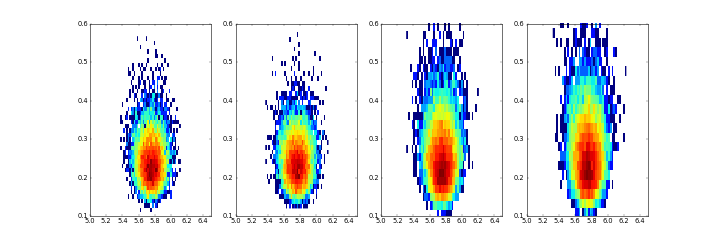
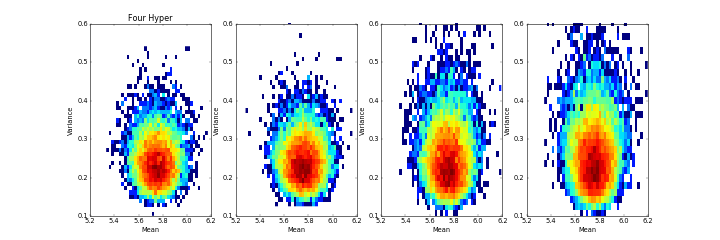
Final updates to project. Simulations complete exept for a more advanced one of the Newmeyer Model. Axis on facutly_learning plots off and need to be fixed at some point

diff --git a/src/faculty_learning.py b/src/faculty_learning.py
@@ -107,13 +107,17 @@ print('Mean of data:', np.mean(data))
 # Plot joint distribution for prior_mean and prior_varinace
 fig, (ax) = plt.subplots(1, 1, figsize=(9,6))
 ax.hist2d(mean_samples, var_samples, bins=40, norm=LogNorm())
-plt.savefig('../img/learning/faculty_joint_none.png', dpi=40)
-
+ax.set_xlabel('Mean')
+ax.set_ylabel('Variance')
+ax.set_title('Mean vs. Variance')
+ax.set_xlim(5.2, 6.2)
+ax.set_ylim(0.1, 0.6)
+#plt.savefig('../img/learning/faculty_joint_none.png', dpi=40)
 
 
 # Start and run network with additional hyper-parameter
-hyper_mean_mean = NormalNode(5, 1.5, NormalProposal(0.01))
-#hyper_mean_mean = NormalNode(18, 1.5, NormalProposal(0.01))
+#hyper_mean_mean = NormalNode(5, 1.5, NormalProposal(0.01))
+hyper_mean_mean = NormalNode(18, 1.5, NormalProposal(0.01))
 prior_mean.set_mean(hyper_mean_mean)
 hyper_mean_mean.add_child(prior_mean)
 network.add_node(hyper_mean_mean)
@@ -132,8 +136,8 @@ var_samples1 = samples1[:,1]
 
 
 # Start and run network with additional hyper-parameter
-hyper_mean_var = InvGammaNode(2, 1/9, NormalProposal(0.005))
-#hyper_mean_var = InvGammaNode(4, 1/19, NormalProposal(0.01))
+#hyper_mean_var = InvGammaNode(2, 1/9, NormalProposal(0.005))
+hyper_mean_var = InvGammaNode(4, 1/19, NormalProposal(0.01))
 prior_mean.set_variance(hyper_mean_var)
 hyper_mean_var.add_child(prior_mean)
 network.add_node(hyper_mean_var)
@@ -152,8 +156,8 @@ var_samples2 = samples2[:,1]
 
 
 # Start and run network with additional hyper-parameter
-hyper_var_alpha = GammaNode(3, 3/11, NormalProposal(0.4))
-#hyper_var_alpha = GammaNode(8, 1/21, NormalProposal(0.4))
+#hyper_var_alpha = GammaNode(3, 3/11, NormalProposal(0.4))
+hyper_var_alpha = GammaNode(8, 1/21, NormalProposal(0.4))
 prior_variance.set_alpha(hyper_var_alpha)
 hyper_var_alpha.add_child(prior_variance)
 network.add_node(hyper_var_alpha)
@@ -172,8 +176,8 @@ var_samples3 = samples3[:,1]
 
 
 # Start and run network with additional hyper-parameter
-hyper_var_beta = GammaNode(1, 1/2.5, NormalProposal(0.1))
-#hyper_var_beta = GammaNode(2, 1/5.5, NormalProposal(0.1))
+#hyper_var_beta = GammaNode(1, 1/2.5, NormalProposal(0.1))
+hyper_var_beta = GammaNode(2, 1/5.5, NormalProposal(0.1))
 prior_variance.set_beta(hyper_var_beta)
 hyper_var_beta.add_child(prior_variance)
 network.add_node(hyper_var_beta)
@@ -195,19 +199,31 @@ var_samples4 = samples4[1]
 # Plot joint distribution with hyper-parameters included
 fig, (ax1, ax2, ax3, ax4) = plt.subplots(1, 4, figsize=(18,6))
 ax1.hist2d(mean_samples1, var_samples1, bins=40, norm=LogNorm())
-ax1.set_xlim(5.0, 6.5)
+ax1.set_xlim(5.2, 6.2)
 ax1.set_ylim(0.1, 0.6)
+ax1.set_xlabel('Mean')
+ax1.set_ylabel('Variance')
+ax1.set_title('One Hyper')
 ax2.hist2d(mean_samples2, var_samples2, bins=40, norm=LogNorm())
-ax2.set_xlim(5.0, 6.5)
+ax2.set_xlim(5.2, 6.2)
 ax2.set_ylim(0.1, 0.6)
+ax2.set_xlabel('Mean')
+ax2.set_ylabel('Variance')
+ax2.set_title('Two Hyper')
 ax3.hist2d(mean_samples3, var_samples3, bins=40, norm=LogNorm())
-ax3.set_xlim(5.0, 6.5)
+ax3.set_xlim(5.2, 6.2)
 ax3.set_ylim(0.1, 0.6)
+ax3.set_xlabel('Mean')
+ax3.set_ylabel('Variance')
+ax3.set_title('Three Hyper')
 ax4.hist2d(mean_samples4, var_samples4, bins=40, norm=LogNorm())
-ax4.set_xlim(5.0, 6.5)
+ax4.set_xlim(5.2, 6.2)
 ax4.set_ylim(0.1, 0.6)
-plt.savefig('../img/learning/faculty_joint_hyper.png', dpi=40)
-#plt.savefig('../img/learning/faculty_joint_off.png', dpi=40)
+ax4.set_xlabel('Mean')
+ax4.set_ylabel('Variance')
+ax4.set_title('Four Hyper')
+#plt.savefig('../img/learning/faculty_joint_hyper.png', dpi=40)
+plt.savefig('../img/learning/faculty_joint_off.png', dpi=40)
 
 # Analyze the mixing for the hyper-pparameters
 fig, (ax1, ax2, ax3, ax4) = plt.subplots(1, 4, figsize=(18,6))

diff --git a/doc/mcmc_lab3.md b/doc/mcmc_lab3.md
@@ -1,45 +1,27 @@
 # MCMC Part 3: Learning
 
-Note that burn-in and mixing plots are not included in this report as it is focused on hyper-parameters and not previous work in Metropolis. The plots, however, have been studied throughout the development of this project to ensure results are good.
+This document contains results from several experiments in parameter learning using Markov Chain Monte Carlo methods (Gibbs Sampling to be specific). Two specific models are used in this document. The first is the Faculty Evaluations model in which data nodes extend from a common mean and variance modeled as a normal and Inverse Gamma respectively. The second is the Alarm Model, an entirely Bernoulli based model. Some values were modified to accommodate ease of simulation of rare events. Note that burn-in and mixing plots are not included in this report as it is focused on hyper-parameters and not previous work in Metropolis. The plots, however, have been studied throughout the development of this project to ensure results are accurate.
 
 ## Faculty Model Learning
 
-The following plots show the joint distribution of the parameters for mean and variance in the Faculty Evaluations Model as hyper-parameters are added. The initial figure shows the joint disbritution with no hyper-parameters. The figure after shows hyper-parameters being added in the following order: mean-mean, mean-variance, variance-alpha, variance-beta. The hyper-parameters used have the following fixed parameters
+The following plots show the joint distribution of the parameters for mean and variance in the Faculty Evaluations Model as hyper-parameters are added. The initial figure shows the joint distribution with no hyper-parameters. The figure after shows hyper-parameters being added in the following order: mean-mean, mean-variance, variance-alpha, variance-beta. The hyper-parameters used have the following fixed parameters
 
 - Mean-Mean: Normal(5, 1.5)
 - Mean-Variance: Inverse Gamma(alpha=2, beta=1/9)
 - Variance-Alpha:
 - Variance-Beta:
 
-~~Add axis labels and title~~
 ![Joint Distribution - No Hyper-parameters](../img/learning/faculty_joint_none.png)
 
-~~Add axis labels and title~~
-![Joint Distribution - Hyper-parameterrs](../img/learning/faculty_joint_hyper.png)
+![Joint Distribution - Hyper-parameters](../img/learning/faculty_joint_hyper.png)
 
-The histograms of added hyper-parameters trent to become slightly more spread out than the original histogram. The fixed parameters used in the hyper-parameters were chosen to have a means that mimic the previous mean and variance. If instead more "off" fixed parameters are chosen for the hyper-parameters The following results as they are added one-by-one.
+The histograms of added hyper-parameters tend to become slightly more spread out than the original histogram. The fixed parameters used in the hyper-parameters were chosen to have a means that mimic the previous mean and variance. If instead more "off" fixed parameters are chosen for the hyper-parameters the following results as they are added one-by-one.
 
-~~Add axis labels and title~~
 ![Joint Distribution - Off Hyper-parameters](../img/learning/faculty_joint_off.png)
-
-~~Results from 'off' hyper-parameters~~
-
-~~Report on how distributions are affected~~
-
-~~Test using more hyper-parameters?~~
-
-~~Remeber to increase run parameters before runing final simulation~~
-
-Interesting things to show:
-- Eliminating data from the model
-- Adding additional, unobserved, nodes to see how results change
-- Add parent nodes and watch how they learn
-	- What to look for?
-	- Maybe watch for how estimates of mean and variance are affected
 
 ## Alarm Model Learning
 
-In the Alarm Model I use Beta distributions to model the hyper-parameters for all of the simulations. In most cases the initial parameters used are alpha=1, beta=1. The posterior this way makes no assumption on what the probabilities are and is trained by the data.
+In the Alarm Model I use Beta distributions to model the hyper-parameters for all of the simulations. Throughout the experiments the initial parameters used are alpha=1, beta=1. The posterior this way makes no assumption on what the probabilities are and is trained by the data.
 
 ### Hyper-parameter Learning
 
@@ -54,7 +36,7 @@ Only three hyper-parameters:
 Half of hyper-parameters
 
 - Alarm for Burglary true and Earthquake true
-- Burlary
+- Burglary
 
 All of hyper-parameters
 
@@ -64,7 +46,7 @@ All of hyper-parameters
 - Mary for Alarm true
 - Mary for Alarm false
 
-In the first plot only the TT, TF, and FT cases are included. All simulations for these tests were run with 100 data nodes and for 1000 samples. In the plot, the yellow dot represets the actual parameter and the red dot represents the estimated parameter. The prior is also shown along with a histogram of the sampled posterior.
+In the first plot only the TT, TF, and FT cases are included. All simulations for these tests were run with 100 data nodes and for 1000 samples. In the plot, the yellow dot represents the actual parameter and the red dot represents the estimated parameter. The prior is also shown along with a histogram of the sampled posterior.
 
 ![3 Hyper-parameters](../img/learning/alarm_hyper_3.png)
 
@@ -76,7 +58,7 @@ Although this is only a case study and in no way a proof, from my observation th
 
 ### Amounts of Learning Data
 
-Using the same scenario as the previous section, the following are the alarm node hyper-parameters with three different amount of data: 20 data nodes, 100 data nodes, and 500 data nodes. All hyper-parameters were included in this scenario.
+Using the same scenario as the previous section, the following are the alarm node hyper-parameters with three different amounts of data: 20 data nodes, 100 data nodes, and 500 data nodes. All hyper-parameters were included in this scenario.
 
 ![20 Data Nodes](../img/learning/alarm_nodes_20.png)
 
@@ -84,7 +66,7 @@ Using the same scenario as the previous section, the following are the alarm nod
 
 ![500 Data Nodes](../img/learning/alarm_nodes_500.png)
 
-Scince these observed nodes are all taken from the same child node, The following plots are from the same simulations but show various a few other samplings. The plots show the hyper-parameters of burglary, John given alarm false, and Mary given alarm true.
+Since these observed nodes are all taken from the same child node, the following plots are from the same simulations but show various other samplings. The plots show the hyper-parameters of burglary, John given alarm false, and Mary given alarm true.
 
 ![20 Data Nodes Various](../img/learning/alarm_nodes_various_20.png)
 
@@ -92,11 +74,11 @@ Scince these observed nodes are all taken from the same child node, The followin
 
 ![500 Data Nodes Various](../img/learning/alarm_nodes_various_500.png)
 
-~~Observations from this scenario~~
+A significant jump is made between 20 data nodes and 100 data nodes. The jump from 100 to 500 shows to be less significant although estimates are improved.
 
 ### Original Parameter Learning
 
-As a hypothesis, I would propose that the previous model will be more difficult to learn because of the lack of occurances of burglary and earthquake. Thus, more data nodes will be required to achieve a good simulation. Becaue of this, I am using the same three scenarios from the last section. That is, I have run the simulation for 20, 100, and 500 data nodes to see how the amount of data affects the result.
+As a hypothesis, I would propose that the previous model will be more difficult to learn because of the lack of occurrences of burglary and earthquake. Thus, more data nodes will be required to achieve a good simulation. Because of this, I am using the same three scenarios from the last section. That is, I have run the simulation for 20, 100, and 500 data nodes to see how the amount of data affects the result.
 
 ![20 Data Original](../img/learning/alarm_original_20.png)
 
@@ -104,7 +86,7 @@ As a hypothesis, I would propose that the previous model will be more difficult 
 
 ![500 Data Original](../img/learning/alarm_original_500.png)
 
-As also in the previous section, the following are the plots for hyper-parmeters burglary, John given alarm false, and Mary given alarm true.
+As also in the previous section, the following are the plots for hyper-parameters burglary, John given alarm false, and Mary given alarm true.
 
 ![20 Data Original Various](../img/learning/alarm_original_various_20.png)
 
@@ -112,23 +94,33 @@ As also in the previous section, the following are the plots for hyper-parmeters
 
 ![500 Data Original Various](../img/learning/alarm_original_various_500.png)
 
-~~Observations from this scenario~~
+These results are quite interesting because of the failure of so many estimates to converge. Even at 500 data-nodes, the samples are far from converging for the majority of the alarm hyper-parameters as well as Mary given alarm=true.
 
 ### Hyper-hyper Parameter Learning
 
+For this scenario, I included two gamma functions as hyper-hyper-parameters. The first is a hyper-hyper-parameter to the alpha of the hyper-parameter of alarm given burglary=true and earthquake=true. The parameters are set to have a wide variance and a mean centered at alpha = 1. The second hyper-hyper-parameter is on the burglary node. This is set similar to the one on the alarm parameter described except for the beta of the hyper-parameter. Below are the plots used in previous sections followed by a plot of the hyper-hyper-parameters.
+
+![Hyper-hyper Alarm](../img/learning/alarm_hyper_alarm.png)
+
+![Hyper-hyper Various](../img/learning/alarm_hyper_various.png)
+
+![Hyper-hyper Hyper](../img/learning/alarm_hyper_hyper.png)
+
+Little affect is made by adding the additional hyper-hyper-parameters. Most importantly, is that there isn't any real negative affect. If the case is that parameters are added that are far from being correct, a greater negative affect will occur as we observed in the Faculty Model. In summary, the more information can be added the better. There comes a point, however, were we don't have new information we can add and thus it is not helpful to add additional levels of parameters if they are too vague to provide additional information.
+
 ### Missing Observations
 
-To complete this task, I replaced each sample of the previous data set with NaN with probability 1/4. While reading the data in, NaN samples are made as unkown nodes. With 100 data points and 1000 samples the alarm hyper-parameters and other hyper-paramters used in previous sections have the following plots.
+To complete this task, I replaced each sample of the previous data set with NaN with probability 1/4. While reading the data in, NaN samples are made as unknown nodes. With 100 data points and 1000 samples the alarm hyper-parameters and other hyper-parameters used in previous sections have the following plots.
 
 ![Missing Observations Alarm](../img/learning/alarm_missing_alarm.png)
 
 ![Missing Observations Various](../img/learning/alarm_missing_various.png)
 
-~~Observations from this scenario~~
+Once again there is little affect. Variance (e.g. spread of the histograms) is increased slightly, but no significant changes otherwise.
 
 ### My Parameter Learning
 
-I adjusted the probabilities on the Burglary and Alarm nodes as folloes
+I adjusted the probabilities on the Burglary and Alarm nodes as follows
 
 	P(Earthquake=True) = 0.5
 
@@ -137,33 +129,35 @@ I adjusted the probabilities on the Burglary and Alarm nodes as folloes
 	P(Alarm=True|Burglary=False,Earthquake=True) = 0.02
 	P(Alarm=True|Burglary=False,Earthquake=False) = 0.01
 
-To remove some of the data, I replaced each sample with NaN with probability of 1/4. Runing my code the following plots for the alarm hyper-paramters and various other hyper-paramters are produced.
+To remove some of the data, I replaced each sample with NaN with probability of 1/4. Running my code the following plots for the alarm hyper-parameters and various other hyper-parameters are produced.
 
-![My Paramters Alarm](../img/learning/alarm_newmeyer_alarm.png)
+![My Parameters Alarm](../img/learning/alarm_newmeyer_alarm.png)
 
 ![My Parameters Various](../img/learning/alarm_newmeyer_various.png)
 
 The estimated parameter values (mean of the samples produced) are as follows
 
-	P(Earthquake=True) ~= 0.5
+	P(Earthquake=True) ~= 0.474
 
-	P(Alarm=True|Burglary=True,Earthquake=True) ~= 0.99
-	P(Alarm=True|Burglary=True,Earthquake=False) ~= 0.98
-	P(Alarm=True|Burglary=False,Earthquake=True) ~= 0.02
-	P(Alarm=True|Burglary=False,Earthquake=False) ~= 0.01
+	P(Alarm=True|Burglary=True,Earthquake=True) ~= 0.477
+	P(Alarm=True|Burglary=True,Earthquake=False) ~= 0.653
+	P(Alarm=True|Burglary=False,Earthquake=True) ~= 0.031
+	P(Alarm=True|Burglary=False,Earthquake=False) ~= 0.027
+
+As you may see the results are less accurate than hoped. I believe this to be due to probability of burglary being true being a low probability event. Thus, the simulation fails to accurately estimate this probability for the probabilities dependent on burglary being true. I am currently running this simulation but it may still take much longer and I am turning this assignment in now. I will send an update when the simulation completes.
 
 ### Craig Bidstrup's Parameter Learning
 
-Not knowning Craig's parameters for eqarthquake the following histograms are achieved (same hyper-parameters as in other scenarios) using my code.
+Not knowing Craig's parameters for earthquake the following histograms are achieved (same hyper-parameters as in other scenarios) using my code. Data nodes and number of samples are once again 100 and 1000 respectively.
 
 ![Craig's Parameters Alarm](../img/learning/alarm_bidstrup_alarm.png)
 
 ![Craig's Parameters Various](../img/learning/alarm_bidstrup_various.png)
 
-	P(Earthquake=True) ~= 0.5
+	P(Earthquake=True) ~= 0.286
 
-	P(Alarm=True|Burglary=True,Earthquake=True) ~= 0.99
-	P(Alarm=True|Burglary=True,Earthquake=False) ~= 0.98
-	P(Alarm=True|Burglary=False,Earthquake=True) ~= 0.02
-	P(Alarm=True|Burglary=False,Earthquake=False) ~= 0.01
+	P(Alarm=True|Burglary=True,Earthquake=True) ~= 0.893
+	P(Alarm=True|Burglary=True,Earthquake=False) ~= 0.699
+	P(Alarm=True|Burglary=False,Earthquake=True) ~= 0.428
+	P(Alarm=True|Burglary=False,Earthquake=False) ~= 0.225
 
